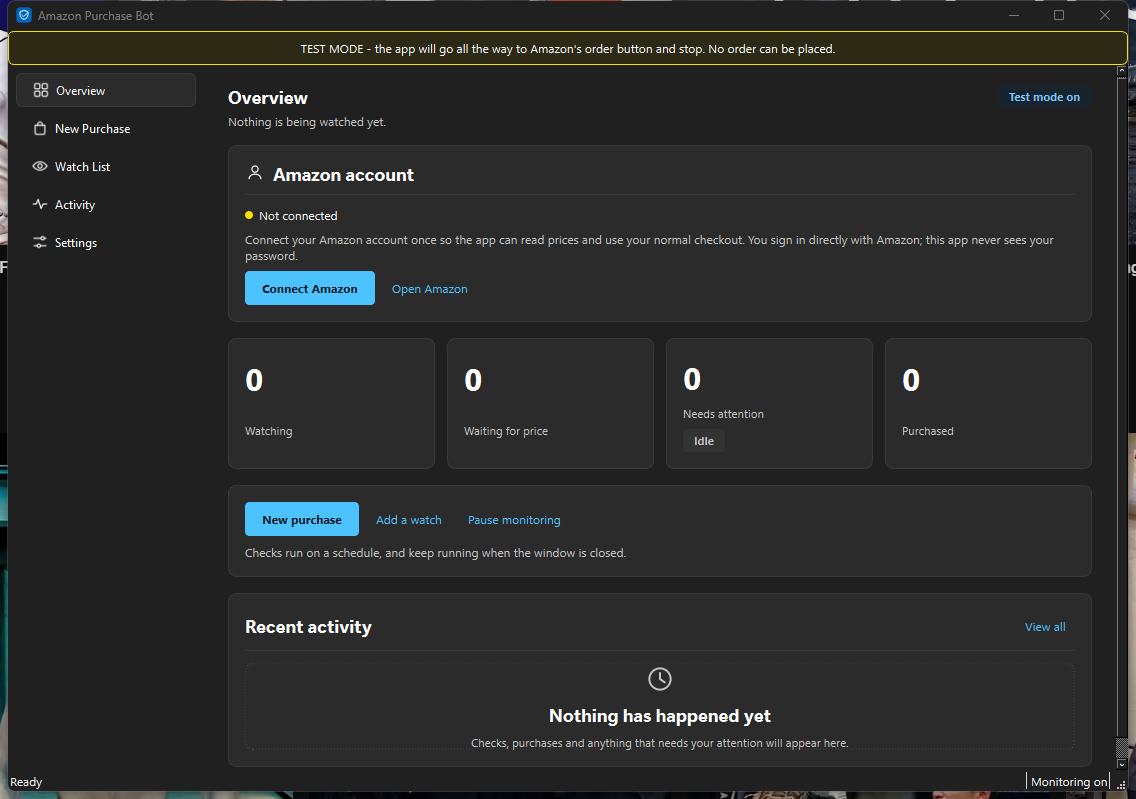
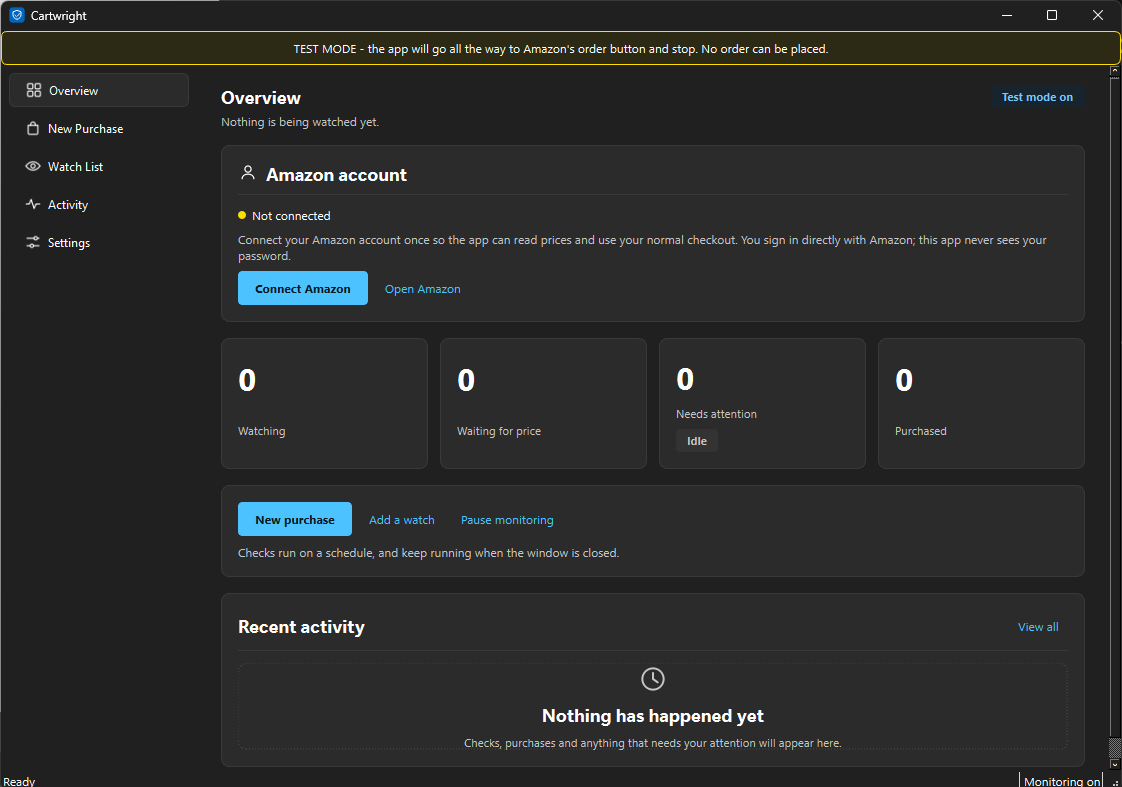
Recapture the two screenshots that still said the old name
These are the only images not produced by `scripts/capture_screens.py` --
Qt's offscreen platform has no native caption bar, so the evidence that the
dark title bar actually works has to be taken from a running window on real
hardware. That meant they still carried the pre-rename title, which would be
the first thing a reader of the test report noticed.

Retaken from `dist/Cartwright`, which is byte-for-byte the folder the
installer copies, so the chrome is the same one an installed copy shows; the
report now says that rather than claiming an installed copy. A few pixels of
desktop showing through the window's rounded bottom corner are cropped off.

diff --git a/docs/TEST_REPORT.md b/docs/TEST_REPORT.md
@@ -333,7 +333,7 @@ they establish, and what they do not:
 | Control experiment | The same library sent a toast under PowerShell's own well-known AppUserModelID -- an identity Windows already trusts. It behaved identically: accepted, no banner, nothing in history. **This machine is not displaying toast banners at all**, so the app's result says nothing about the app |
 | Start with Windows | `startup.enable()` writes the `Run` value with the right command; `is_enabled()` reads it back; a `StartupApproved` blob of `03 00 …` is correctly read as "Turned off in Windows Settings" and `02 00 …` as "On"; `disable()` removes both. Done against the **real** `HKCU` keys, then cleaned up |
 | Tray icon | Launching the app creates a real notification-area entry: `HKCU\Control Panel\NotifyIconSettings` gains a row whose `ExecutablePath` is the application's executable. It is not promoted out of the overflow flyout, which is Windows' default for a new application, so its **appearance** is still unconfirmed |
-| Dark title bar and window chrome | **Confirmed.** The installed copy was captured on real hardware in dark mode: the caption bar is dark with light text and the application icon, matching the window body (`docs/screens/real-installed-titlebar-dark.png`, `real-installed-dashboard-dark.png`) |
+| Dark title bar and window chrome | **Confirmed.** The packaged build (the same folder the installer copies) was captured on real hardware in dark mode: the caption bar is dark with light text and the application icon, matching the window body (`docs/screens/real-installed-titlebar-dark.png`, `real-installed-dashboard-dark.png`) |
 
 What this does *not* prove: that a user will see a toast on a machine with
 notifications enabled, that clicking a toast button reaches
